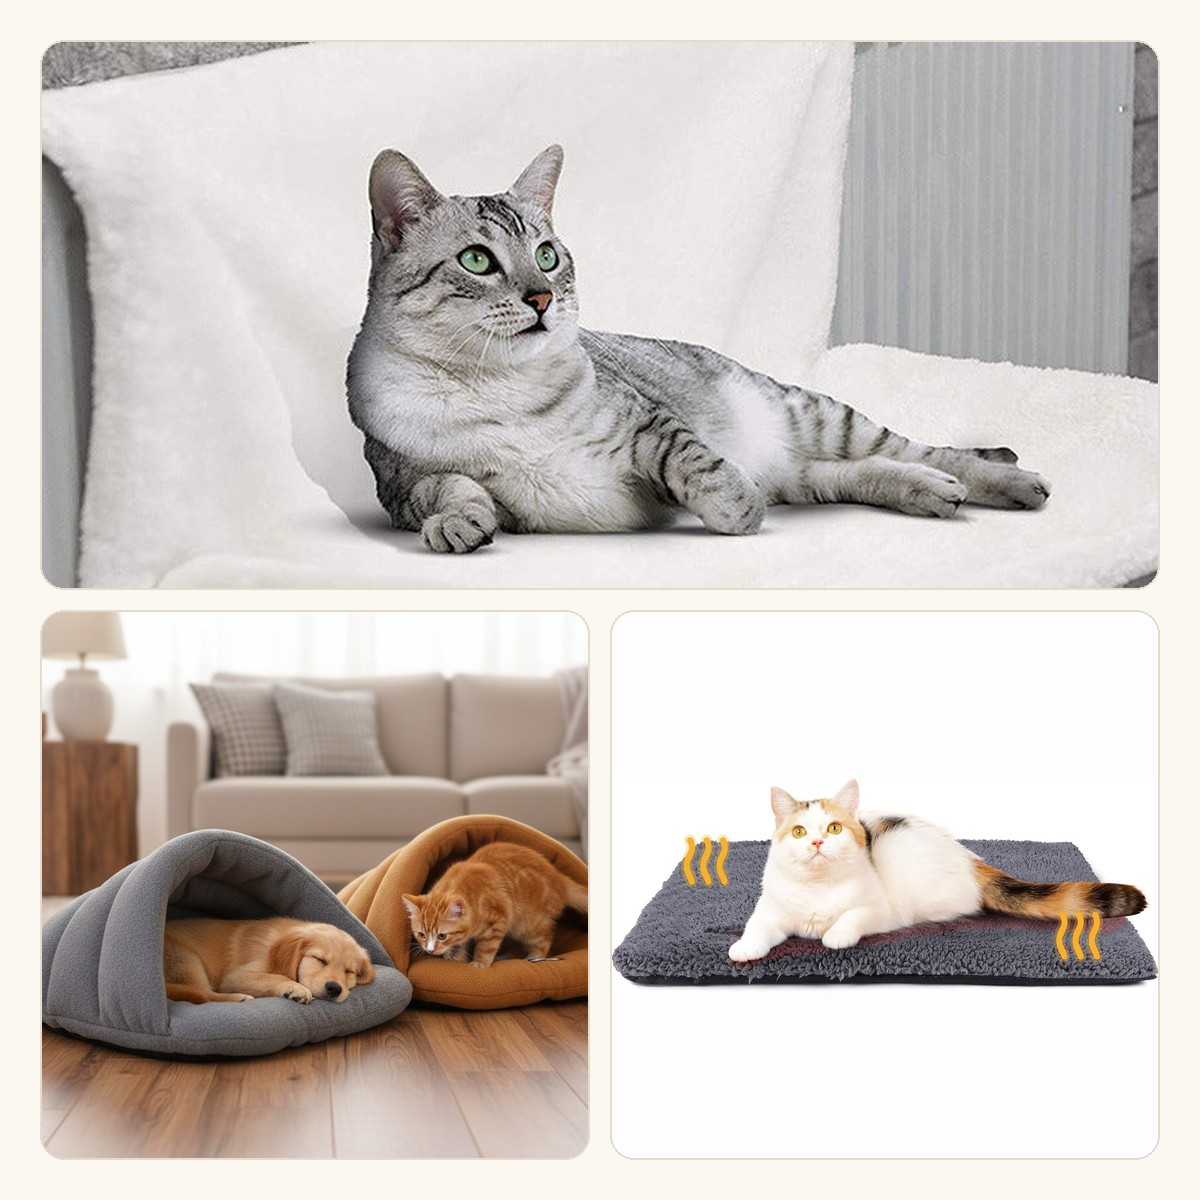
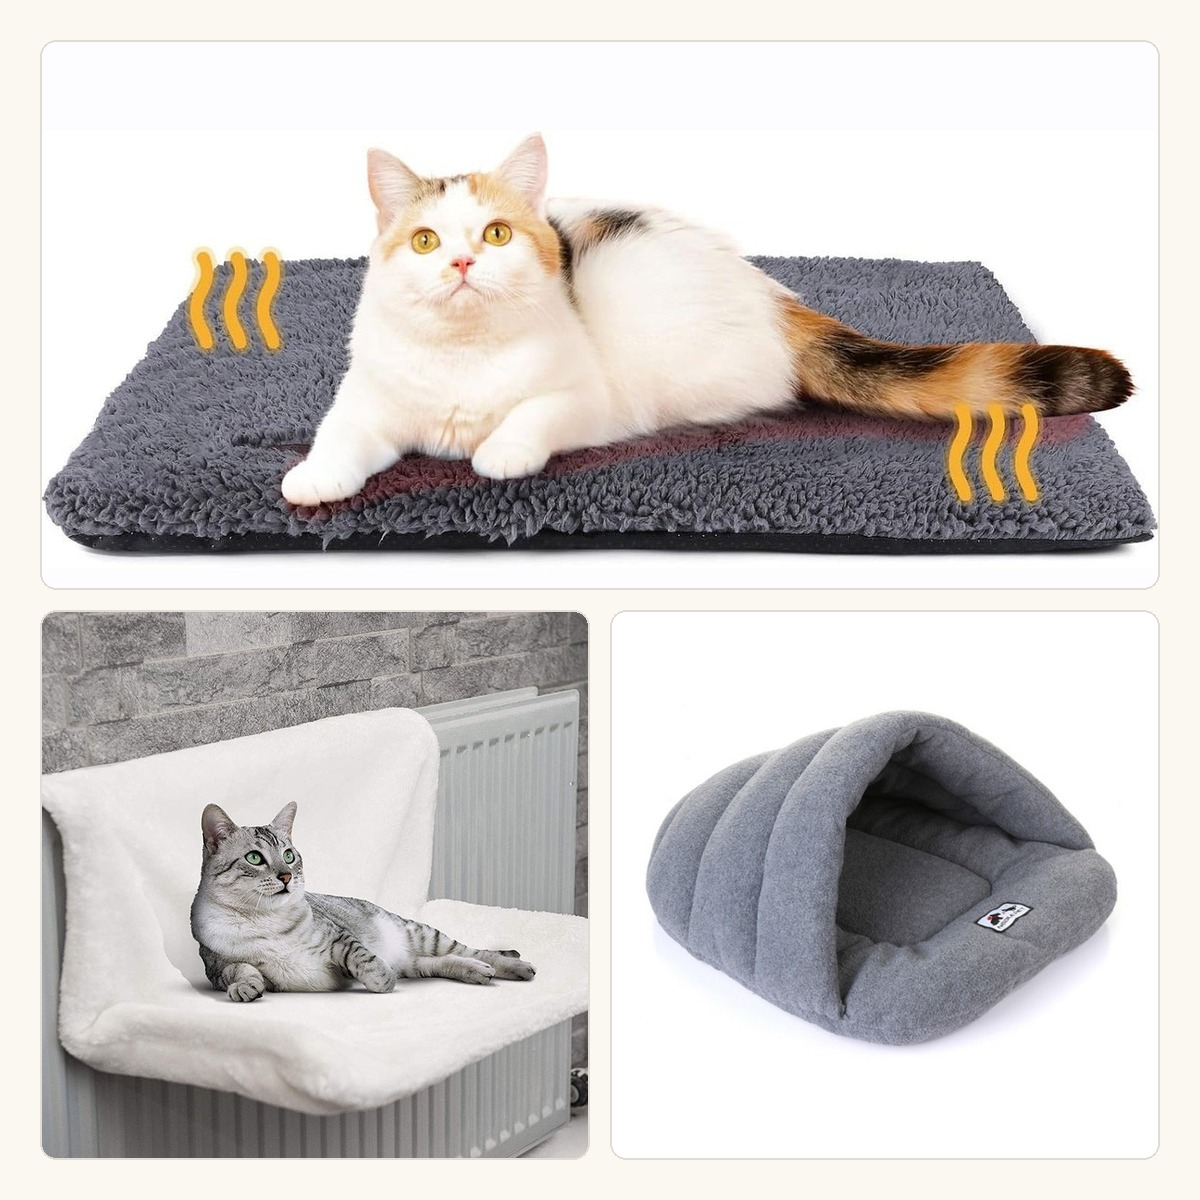
Pack de invierno: ficha y anuncio revisados antes de encenderlo; cambios del 05-10 apuntados otra vez
- research/anuncio-meta-pack-invierno: estado a 09-10 (carrito, envío solo a
  España, código BIENVENIDA10, coste real 29,47 euros, ganancia 24,45 o 19,03
  con el código) y fuera los últimos números de la tarjeta.
- Foto principal del pack rehecha: las tres piezas y solo esas, en el color que
  se envía. Imágenes nuevas del anuncio en assets/anuncios/2026-10.
- research/ganancia-real: precios subidos, envío solo a España y productos en
  borrador del 05-10, comprobados otra vez el 09-10.

Claude-Session: https://claude.ai/code/session_01CFqyQZwoYDpx6wpYr3FX3j

diff --git a/research/anuncio-meta-pack-invierno-2026-09-24.md b/research/anuncio-meta-pack-invierno-2026-09-24.md
@@ -3,19 +3,58 @@
 Lo monta Pablo en el Administrador de anuncios: la app de Meta está en modo desarrollo
 y la API no deja crear anuncios. Se deja **apagado** hasta que Pablo diga «sí».
 
+## Estado a 09-10-2026
+
+Pablo: «este producto va a ser la publicidad para nuestra tienda; ahora está en
+juego que la gente entre y compre».
+
+**Lo comprobado hoy, como un cliente desde el móvil y sin crear pedidos:**
+
+- **Ficha:** carga en 0,97 s, con el píxel de Meta y los botones de pago rápido.
+- **Carrito:** suma 66,90 €.
+- **Envío** (API pública de la tienda, `cartCreate` con dirección):
+  - Madrid y Palma: «Envío gratis».
+  - Canarias, Francia, Portugal y Alemania: ninguna opción. La tienda solo envía a
+    la península y Baleares.
+- **Código BIENVENIDA10** (aviso de la cabecera): funciona y deja el pack en 60,21 €.
+
+**El dinero, hoy:**
+
+- **Coste real en CJ:** 29,47 €. Productos 10,73 $ × 1,21 + envío conjunto 19,03 $ (YunExpress, 8-15 días), × 0,92.
+- **Ganancia por venta:** 24,45 € sin código y **19,03 € con BIENVENIDA10**. Casi todos lo usarán, así que cada venta tiene que costar menos de unos 19 € en anuncios.
+- **Existencias:** las tres piezas tienen unidades en China (hamaca 40.000, saco 30.000, manta 6.053).
+
+**Fotos cambiadas:**
+
+- **El fallo:** la foto principal de la ficha y estas imágenes del anuncio enseñaban un saco en dos colores (gris con un cachorro y marrón con un gatito) cuando el pack lleva uno gris. Además, en la ficha la hamaca salía tan recortada que no se veía el radiador.
+- **La foto principal nueva:** la manta con el gato arriba; abajo, la hamaca colgada del radiador y el saco gris solo.
+- **El anuncio:** rehecho con las mismas tres fotos, en `assets/anuncios/2026-10/`. Copia en Archivos de Shopify:
+  - https://cdn.shopify.com/s/files/1/1047/3475/3116/files/anuncio-pack-invierno-4x5-v2.jpg?v=1791541653
+  - https://cdn.shopify.com/s/files/1/1047/3475/3116/files/anuncio-pack-invierno-9x16-v2.jpg?v=1791541653
+  - https://cdn.shopify.com/s/files/1/1047/3475/3116/files/anuncio-pack-invierno-1x1-v2.jpg?v=1791541653
+- **Las imágenes de `assets/anuncios/2026-09/` ya no se usan.**
+
+**Lo que falta, todo de Pablo:**
+
+1. **Saldo pendiente de la cuenta de anuncios:** Pablo dice que lo pagó el 09-10. No se ha podido comprobar desde aquí.
+2. **Acceso a la API de Meta:** sigue «API access blocked» desde el 28-09, y no hay ninguna clave de Meta en el entorno.
+   - El primer paso es que Pablo mande la captura del aviso de https://developers.facebook.com/apps/4222313344728923/dashboard/
+   - Después, la app tiene que pasar a «en vivo», y la clave se guarda en el entorno como `META_ADS_TOKEN`.
+3. **Presupuesto:** propuesto 5 €/día tres días, luego 10 €/día, con un tope de 100 €.
+
 ## Antes (bloqueos, los quita Pablo)
 1. Pagar el saldo pendiente de 3,53 € (cuenta `act_381307905740791`, estado 3 = pago
-   pendiente, Visa *1983).
+   pendiente).
 2. Terminar la app «Facebook e Instagram» de Shopify (instalada; el píxel aún no sale en
    la web: solo carga el de TikTok). Conjunto de datos nuevo «Patitascalidas»,
    compartir datos «Máximo».
 
-## Imágenes (`assets/anuncios/2026-09/`)
+## Imágenes (`assets/anuncios/2026-09/`, sustituidas el 09-10: ver arriba)
 - `pack-invierno-4x5.jpg` 1080 × 1350 — feed de Facebook e Instagram.
 - `pack-invierno-9x16.jpg` 1080 × 1920 — historias y reels (franjas crema arriba y abajo,
   que es donde la interfaz tapa).
 - `pack-invierno-1x1.jpg` 1080 × 1080 — columna derecha y buscador.
-Origen: `assets/redes/2026-09/pack-invierno-anuncio.jpg` (cama cueva arriba, hamaca
+Origen: `assets/redes/2026-09/pack-invierno-anuncio.jpg` (saco cueva arriba, hamaca
 blanca y manta abajo; la hamaca en blanco porque es la que lleva el pack).
 
 ## Enlace

diff --git a/research/ganancia-real-2026-10-05.md b/research/ganancia-real-2026-10-05.md
@@ -90,3 +90,41 @@ Precios de venta del 30-09; se toma la talla o variante que menos deja.
 Productos analizados: 142. Con alguna variante por debajo de 8 € en el peor caso: 75. En pérdidas: 0.
 
 Sin calcular: envíos fuera de España. La tienda vende a 40 países (UE 8,99 €, resto 12,99 €) y estos costes son de China → España.
+
+## Cambios aplicados el 05-10-2026 (comprobados otra vez el 09-10)
+
+Esta sección se escribió el 05-10 pero no llegó a guardarse; se rehace el 09-10
+con cada dato vuelto a leer en la tienda.
+
+**Precios subidos** (los que no llegaban a 8 € de ganancia y aguantaban subida):
+
+| SKU | Producto | Precio nuevo |
+|---|---|---:|
+| PTC-MANTAIMP-04 | Manta impermeable para sofá y cama, talla «Cama» | 49,90 € |
+| PTC-FUNDACOCHE-01 a 03 | Funda de asiento trasero para perro (los 3 modelos) | 44,90 € |
+| PTC-RAMPAARENERO-01 a 03 | Escalera para arenero con rejilla (los 3 colores) | 44,90 € |
+| PACK-BANO-LLUVIA | Pack baño y lluvia («Ahorras 9,80 €»; por separado 54,70 €) | 44,90 € |
+
+**Envíos:** desde el 05-10 la tienda solo envía a España peninsular y Baleares
+(6,99 €, gratis desde 39 €). Se quitaron las zonas «UE» (8,99 €) e
+«Internacional» (12,99 €), así que la última línea de arriba ya no vale.
+
+- Comprobado el 09-10 con la API pública de la tienda (`cartCreate` con dirección):
+  - Madrid y Palma: «Envío gratis».
+  - Canarias, Francia, Portugal y Alemania: ninguna opción.
+- Por encima de 39 € sale también «Estándar 6,99 €». Sobra y puede confundir. Pablo lo quita en
+  https://admin.shopify.com/store/g5d031-ir/settings/shipping (que «Estándar» valga
+  solo hasta 38,99 €).
+
+**En borrador** (no coinciden con lo que manda CJ, o CJ no puede servirlos):
+
+- Abrigo de invierno: las fotos de CJ son un pijama.
+- Cama cueva «con techo»: CJ manda una cama dónut sin techo.
+- Comedero rotativo: solo hay existencias en Reino Unido, sin ruta a España.
+
+Los tres siguen en `DRAFT` el 09-10.
+
+**Blog** (05-10; esto no se ha vuelto a mirar el 09-10):
+
+- Los artículos del arenero y de los plazos de entrega llevan los precios nuevos (44,90 €).
+- En «Mi gato tiene frío» se quitó el enlace a la cama cueva.

diff --git a/assets/packs/README.md b/assets/packs/README.md
@@ -12,3 +12,11 @@ Arriba la foto de ambiente, abajo las otras dos piezas.
 incrustado. Se descartaron varias por eso: la hierba gatera tenía nueve de
 diez fotos con rótulos («Hydroponic Cat Grass Box»), y la del conjunto de
 arnés y correa llevaba la medida impresa y salía cortada.
+
+**09-10-2026, pack el gato en invierno:** `pack-gato-invierno.jpg` se rehízo.
+La versión anterior enseñaba la hamaca tan recortada que no se veía el
+radiador, y la foto de ambiente del saco traía dos sacos (gris y marrón)
+cuando el pack lleva uno gris. Ahora: arriba la manta con el gato; abajo la
+hamaca colgada del radiador y el saco gris solo (`saco-gris-carbon-pack.jpg`,
+que también va en la ficha). Regla: la foto de un pack enseña sus piezas y
+**solo** sus piezas, en el color que se envía.
